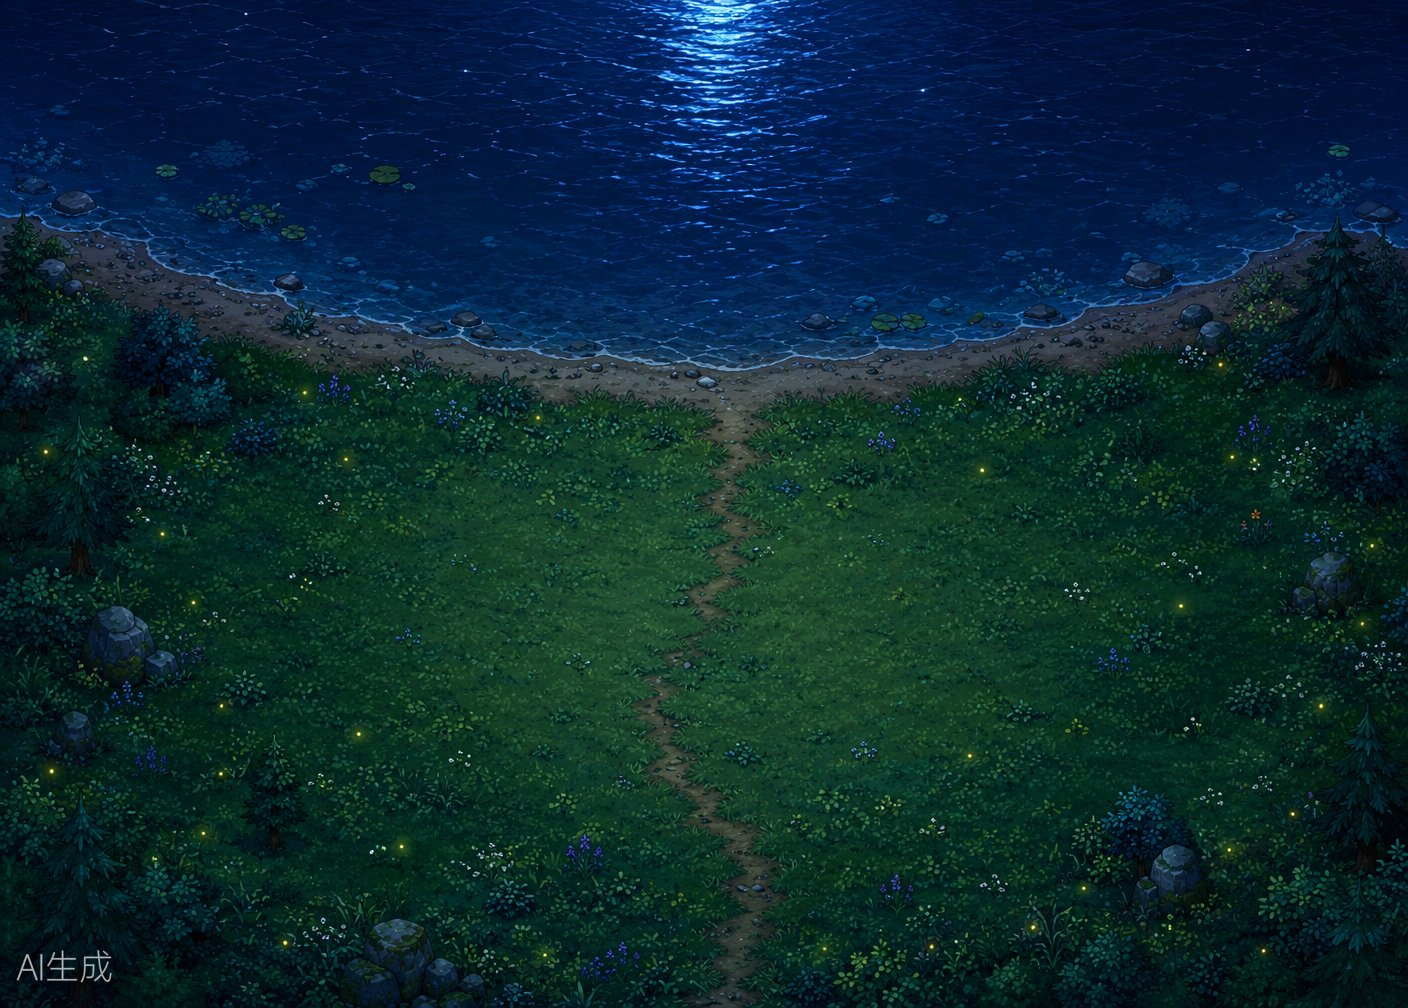
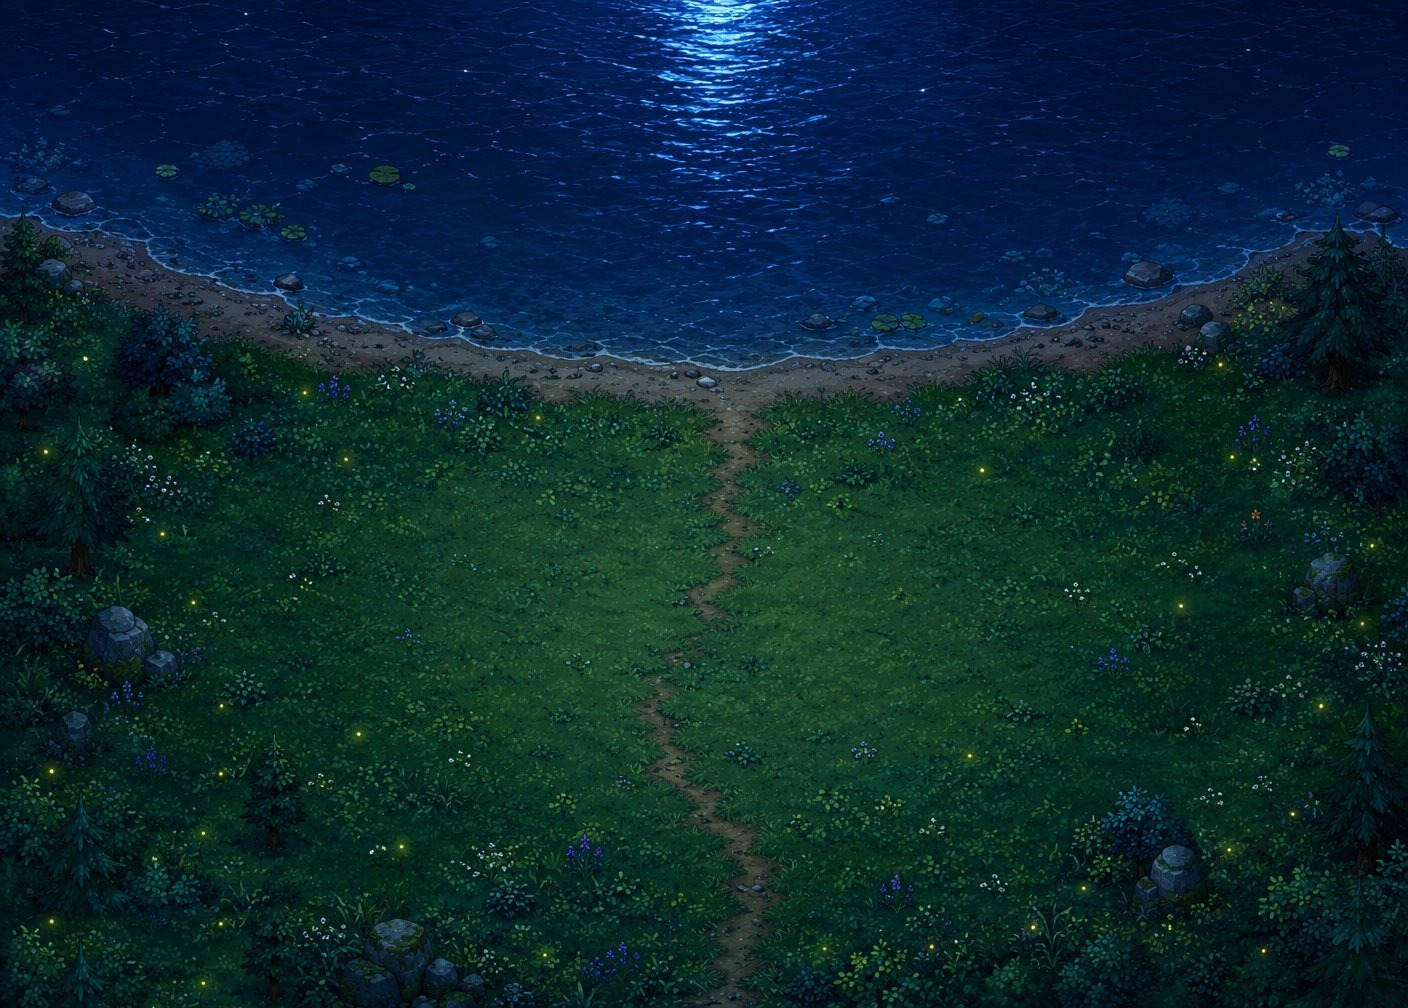
v44: 去除地图水印、修复海面碰撞、火把光圈跟随、摇杆自适应与减速

Changed region(s): [[0.0, 0.8919, 0.2188, 1.0]]

diff --git a/css/style.css b/css/style.css
@@ -498,21 +498,22 @@ svg.gr *{fill:currentColor;stroke:none}
   box-shadow:0 3px 10px rgba(0,0,0,.5)}
 .vx-shadow{position:absolute;left:50%;bottom:-4px;width:44px;height:12px;transform:translateX(-50%);border-radius:50%;background:rgba(0,0,0,.4);filter:blur(2px)}
 .vx-torch{position:absolute;top:22px;right:8px;font-size:.95rem;animation:flick 1.2s ease-in-out infinite;filter:drop-shadow(0 0 8px rgba(255,160,60,.95))}
-.vx-torchlight{position:absolute;left:50%;top:46%;width:260px;height:260px;transform:translate(-50%,-50%);border-radius:50%;pointer-events:none;z-index:-1;
-  background:radial-gradient(circle,rgba(255,180,80,.26),transparent 62%);animation:flick 1.8s ease-in-out infinite}
+.vx-torchlight{position:absolute;left:0;top:-108px;width:340px;height:340px;transform:translate(-50%,-50%);border-radius:50%;pointer-events:none;z-index:-1;
+  background:radial-gradient(circle,rgba(255,180,80,.30),transparent 62%);animation:torchGlow 1.8s ease-in-out infinite}
+@keyframes torchGlow{0%,100%{transform:translate(-50%,-50%) scale(1)}50%{transform:translate(-50%,-50%) scale(1.07)}}
 
 /* 屏幕空间效果 */
 .vx-vignette{position:absolute;inset:0;pointer-events:none;z-index:9000;background:radial-gradient(ellipse at 50% 46%,transparent 55%,rgba(4,10,6,.55) 100%)}
 .vx-moonglow{position:absolute;top:-140px;right:-120px;width:380px;height:380px;border-radius:50%;pointer-events:none;z-index:9001;background:radial-gradient(circle,rgba(210,225,255,.14),transparent 65%)}
 
 .ex-top{position:absolute;top:calc(.6rem + var(--safe-top));left:.9rem;right:.9rem;z-index:9100}
-.ex-controls{position:absolute;left:0;right:0;bottom:calc(.9rem + var(--safe-bottom));z-index:9100;display:flex;justify-content:space-between;align-items:flex-end;padding:0 1.1rem;pointer-events:none}
-.ex-joy{pointer-events:auto;position:relative;width:128px;height:128px;border-radius:50%;touch-action:none;
+.ex-controls{position:absolute;left:0;right:0;bottom:calc(2rem + var(--safe-bottom));z-index:9100;display:flex;justify-content:space-between;align-items:flex-end;padding:0 1.1rem 0 1.9rem;pointer-events:none}
+.ex-joy{pointer-events:auto;position:relative;width:clamp(104px,33vw,132px);height:clamp(104px,33vw,132px);border-radius:50%;touch-action:none;
   background:radial-gradient(circle,rgba(14,20,14,.55) 62%,rgba(14,20,14,.75));
   border:1.5px solid rgba(245,201,107,.45);backdrop-filter:blur(6px);
   box-shadow:0 4px 16px rgba(0,0,0,.5),inset 0 0 22px rgba(0,0,0,.4)}
 .ex-joy.live{border-color:rgba(245,201,107,.85);box-shadow:0 4px 16px rgba(0,0,0,.5),0 0 18px rgba(245,201,107,.35),inset 0 0 22px rgba(0,0,0,.4)}
-.ex-joy-knob{position:absolute;left:50%;top:50%;width:54px;height:54px;border-radius:50%;transform:translate(-50%,-50%);
+.ex-joy-knob{position:absolute;left:50%;top:50%;width:42%;height:42%;border-radius:50%;transform:translate(-50%,-50%);
   background:radial-gradient(circle at 34% 30%,#ffe9b8,var(--gold) 55%,#a8742a);
   box-shadow:0 3px 10px rgba(0,0,0,.55),0 0 14px rgba(245,201,107,.4);
   transition:transform .05s linear;pointer-events:none}

diff --git a/js/game.js b/js/game.js
@@ -297,10 +297,13 @@ const SCENES = [
       return {
         html: h.join(''),
         rects: [
-          { x: 0, y: 0, w: 175, h: 1000 },
+          { x: 0, y: 0, w: 285, h: 300 },      // 左上海面
+          { x: 0, y: 300, w: 190, h: 380 },    // 左侧湖岸
+          { x: 0, y: 680, w: 265, h: 320 },    // 左下海面
           { x: 1060, y: 286, w: 180, h: 44 },
           { x: 772, y: 496, w: 76, h: 42 },
-          { x: 140, y: 655, w: 210, h: 110 },   // 庄稼地（整片不可踏入）
+          { x: 290, y: 655, w: 60, h: 110 },   // 庄稼地西侧水面补边
+          { x: 140, y: 655, w: 210, h: 110 },  // 庄稼地（整片不可踏入）
         ],
       };
     },
@@ -519,11 +522,11 @@ function showExplore(unlocked) {
     if (G.paused) { exRAF = requestAnimationFrame(frame); return; }
     let tx = (keys.r ? 1 : 0) - (keys.l ? 1 : 0);
     let ty = (keys.d ? 1 : 0) - (keys.u ? 1 : 0);
-    if (joy.on && (Math.abs(joy.x) > 7 || Math.abs(joy.y) > 7)) { tx = joy.x / 44; ty = joy.y / 44; }
+    if (joy.on && (Math.abs(joy.x) > 7 || Math.abs(joy.y) > 7)) { const jr = JR(); tx = joy.x / jr; ty = joy.y / jr; }
     const len = Math.hypot(tx, ty);
     if (len > 1) { tx /= len; ty /= len; }
     /* 触屏设备减速，且拨杆推多少走多快 */
-    const SP = (joy.on || 'ontouchstart' in window) && !window.matchMedia('(pointer:fine)').matches ? 3.7 : 4.6;
+    const SP = (joy.on || 'ontouchstart' in window) && !window.matchMedia('(pointer:fine)').matches ? 3.2 : 4.1;
     if (quizLock) { tx = 0; ty = 0; }
     vel.x += (tx * SP - vel.x) * 0.22;
     vel.y += (ty * SP - vel.y) * 0.22;
@@ -724,7 +727,7 @@ function showExplore(unlocked) {
 
   /* 固定拨杆：指针捕获防断触，松手回中 */
   const joyBase = $('#exJoy'), joyKnob = $('#exJoyKnob');
-  const JR = 44; /* 拨杆半径 */
+  const JR = () => Math.max(24, joyBase.offsetWidth / 2 - joyKnob.offsetWidth / 2 + 2); /* 拨杆半径（随摇杆尺寸自适应） */
   const joySet = (dx, dy) => {
     joy.x = dx; joy.y = dy;
     joyKnob.style.transform = `translate(calc(-50% + ${dx}px),calc(-50% + ${dy}px))`;
@@ -738,15 +741,15 @@ function showExplore(unlocked) {
     joy.sx = r.left + r.width / 2; joy.sy = r.top + r.height / 2;
     joyBase.classList.add('live');
     let dx = e.clientX - joy.sx, dy = e.clientY - joy.sy;
-    const d = Math.hypot(dx, dy);
-    if (d > JR) { dx *= JR / d; dy *= JR / d; }
+    const d = Math.hypot(dx, dy), jr = JR();
+    if (d > jr) { dx *= jr / d; dy *= jr / d; }
     joySet(dx, dy);
   });
   joyBase.addEventListener('pointermove', e => {
     if (!joy.on || e.pointerId !== joy.id) return;
     let dx = e.clientX - joy.sx, dy = e.clientY - joy.sy;
-    const d = Math.hypot(dx, dy);
-    if (d > JR) { dx *= JR / d; dy *= JR / d; }
+    const d = Math.hypot(dx, dy), jr = JR();
+    if (d > jr) { dx *= jr / d; dy *= jr / d; }
     joySet(dx, dy);
   });
   joyBase.addEventListener('pointerup', joyReset);

diff --git a/index.html b/index.html
@@ -5,7 +5,7 @@
 <meta name="viewport" content="width=device-width, initial-scale=1.0, maximum-scale=1.0, user-scalable=no, viewport-fit=cover">
 <meta name="apple-mobile-web-app-capable" content="yes">
 <title>续文魂 · 东巴识字寻宝</title>
-<link rel="stylesheet" href="css/style.css?v=42">
+<link rel="stylesheet" href="css/style.css?v=44">
 </head>
 <body>
 <div id="app">
@@ -29,8 +29,8 @@
     </div>
   </div>
 </div>
-<script>window.__errs=[];window.onerror=(m,src,l,c)=>{window.__errs.push(m+" @"+(src||"").split("/").pop()+":"+l)};</script><script src="js/glyphs.js?v=42"></script>
-<script src="js/audio.js?v=42"></script>
-<script src="js/game.js?v=42"></script>
+<script>window.__errs=[];window.onerror=(m,src,l,c)=>{window.__errs.push(m+" @"+(src||"").split("/").pop()+":"+l)};</script><script src="js/glyphs.js?v=44"></script>
+<script src="js/audio.js?v=44"></script>
+<script src="js/game.js?v=44"></script>
 </body>
 </html>
